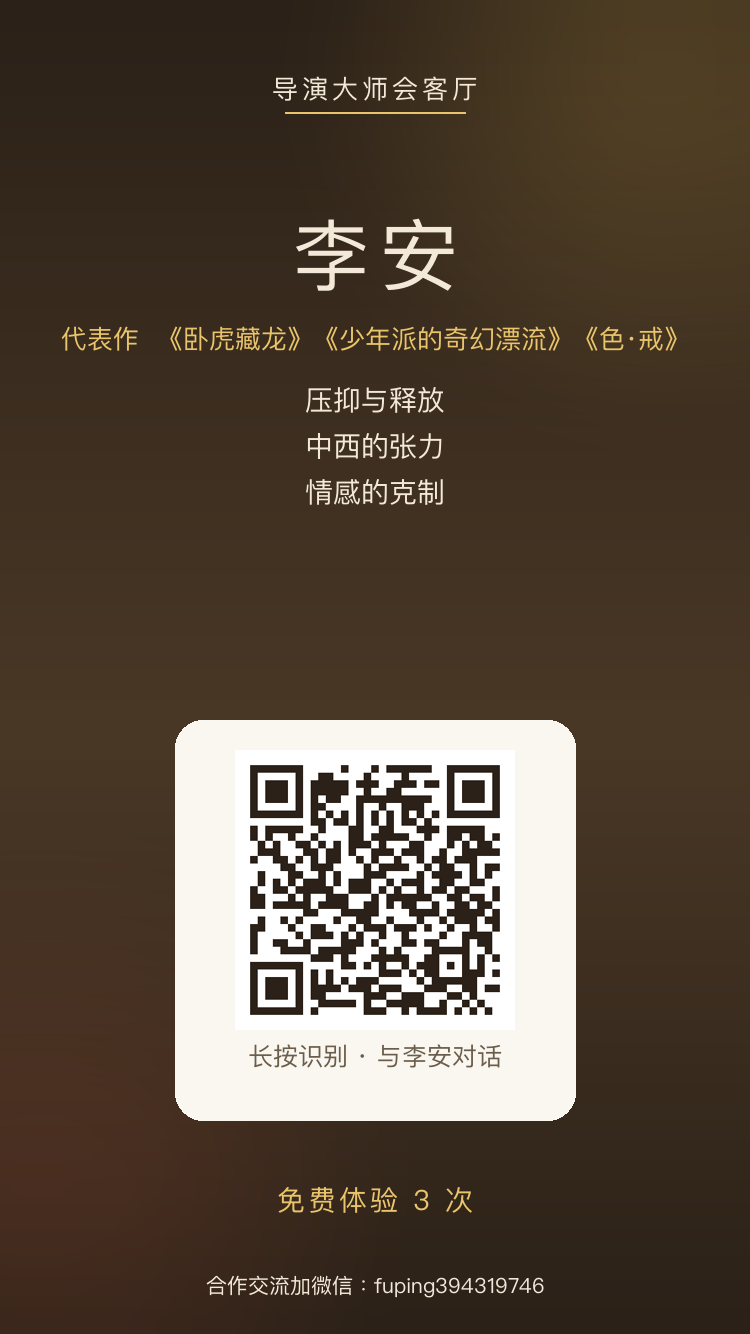
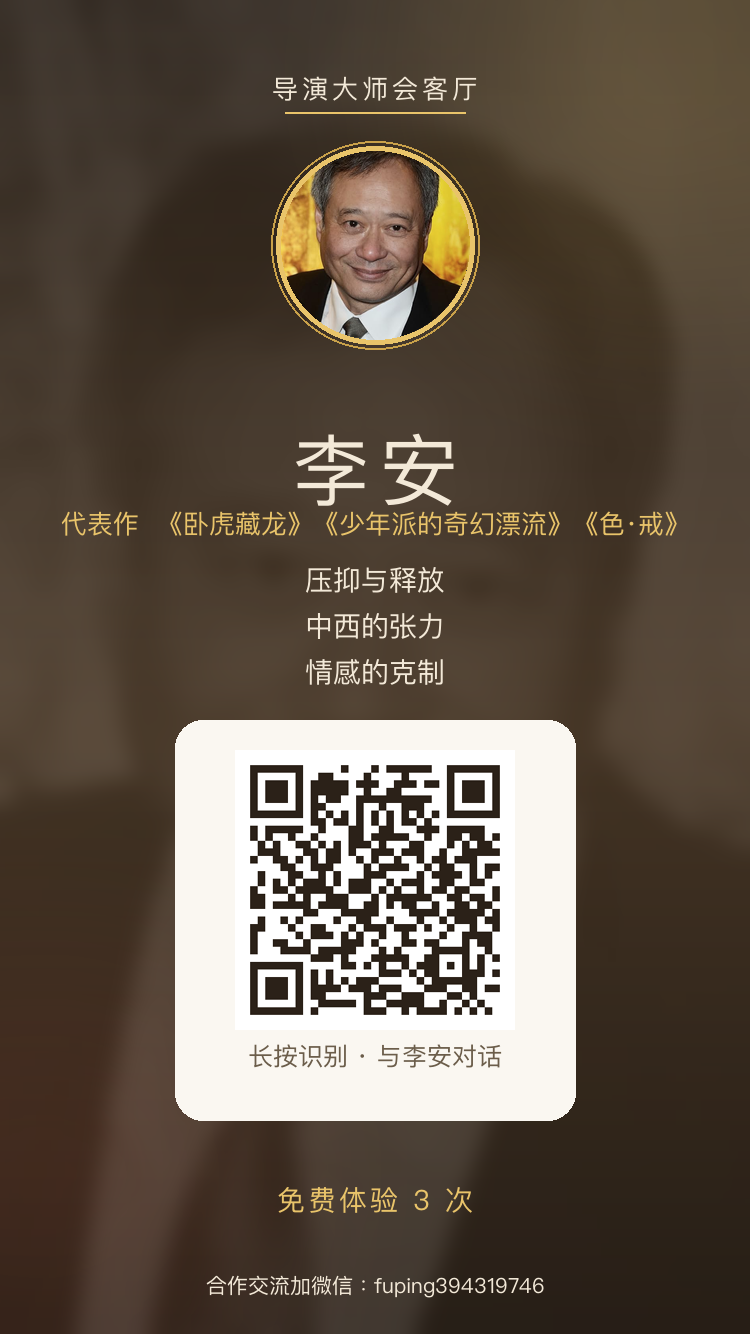
feat: 25位导演海报嵌入IMDb肖像(圆形金环头像+淡背景)，重写fetch_portraits走IMDb+curl

diff --git a/directors/share/fetch_portraits.py b/directors/share/fetch_portraits.py
@@ -1,44 +1,80 @@
 #!/usr/bin/env python3
-# 批量抓取 25 位导演的维基百科公开肖像，存到 share/posters/portraits/<id>.jpg
-# 仅作海报背景淡底用；缺图（多为在世导演无免费图）则跳过，由人工补。
-import json, os, sys, urllib.request, urllib.parse
+# 批量抓取 25 位导演肖像，存到 share/posters/portraits/<id>.jpg
+# 图源: IMDb suggestion 接口。下载走 curl（本机 Python urllib SSL 证书链缺失会全部失败，curl 用系统证书没问题）。
+# 用法: python3 fetch_portraits.py
+import json, os, subprocess, urllib.parse
 from PIL import Image
 
 HERE = os.path.dirname(os.path.abspath(__file__))
-DATA = os.path.join(HERE, '..', 'directors.json')
 OUT  = os.path.join(HERE, 'posters', 'portraits')
 os.makedirs(OUT, exist_ok=True)
 
-def en_title(disp):
-    i = next((k for k, c in enumerate(disp) if c.isascii() and c.isalpha()), None)
-    return disp[i:].strip() if i is not None else disp
+# 导演 id -> IMDb 检索名（显式映射，避免同名人混淆）
+IMDB_NAMES = {
+    'akira-kurosawa': 'Akira Kurosawa',
+    'alfred-hitchcock': 'Alfred Hitchcock',
+    'andrei-tarkovsky': 'Andrei Tarkovsky',
+    'ang-lee': 'Ang Lee',
+    'abbas-kiarostami': 'Abbas Kiarostami',
+    'bong-joon-ho': 'Bong Joon Ho',
+    'charlie-chaplin': 'Charlie Chaplin',
+    'christopher-nolan': 'Christopher Nolan',
+    'david-lynch': 'David Lynch',
+    'edward-yang': 'Edward Yang',
+    'federico-fellini': 'Federico Fellini',
+    'francis-coppola': 'Francis Ford Coppola',
+    'hayao-miyazaki': 'Hayao Miyazaki',
+    'hou-hsiao-hsien': 'Hou Hsiao-hsien',
+    'ingmar-bergman': 'Ingmar Bergman',
+    'jean-luc-godard': 'Jean-Luc Godard',
+    'jean-renoir': 'Jean Renoir',
+    'krzysztof-kieslowski': 'Krzysztof Kieslowski',
+    'martin-scorsese': 'Martin Scorsese',
+    'michelangelo-antonioni': 'Michelangelo Antonioni',
+    'orson-welles': 'Orson Welles',
+    'stanley-kubrick': 'Stanley Kubrick',
+    'takeshi-kitano': 'Takeshi Kitano',
+    'wong-kar-wai': 'Wong Kar-wai',
+    'yasujiro-ozu': 'Yasujiro Ozu',
+}
 
-def get(url):
-    req = urllib.request.Request(url, headers={'User-Agent': 'poster-gen/1.0'})
-    return urllib.request.urlopen(req, timeout=25)
+def curl_bytes(url, timeout=30):
+    r = subprocess.run(['curl', '-s', '-m', str(timeout), '-A', 'Mozilla/5.0', url],
+                       capture_output=True)
+    if r.returncode != 0 or not r.stdout:
+        raise RuntimeError(f'curl exit {r.returncode}')
+    return r.stdout
 
-data = json.load(open(DATA, encoding='utf-8'))['directors']
+def imdb_image_url(query):
+    letter = query[0].lower()
+    api = f'https://v2.sg.media-imdb.com/suggestion/{letter}/{urllib.parse.quote(query)}.json'
+    j = json.loads(curl_bytes(api))
+    items = j.get('d', [])
+    # 优先取「人物条目」（id 以 nm 开头），避免拿到影视海报/专题图
+    items.sort(key=lambda x: 0 if str(x.get('id', '')).startswith('nm') else 1)
+    for item in items:
+        img = item.get('i', {}).get('imageUrl')
+        if img:
+            # 缩到宽 480，够海报用且省流量
+            return img.replace('._V1_.jpg', '._V1_QL75_UX480_.jpg'), item.get('l', '')
+    return None, None
+
 ok, miss = 0, []
-for dr in data:
-    name = dr['name']
-    title = en_title(dr.get('display_name', name))
-    api = 'https://en.wikipedia.org/api/rest_v1/page/summary/' + urllib.parse.quote(title)
+for did, q in IMDB_NAMES.items():
+    dest = os.path.join(OUT, did + '.jpg')
     try:
-        j = json.load(get(api))
-        src = j.get('thumbnail', {}).get('source')
+        src, hit = imdb_image_url(q)
         if not src:
-            raise ValueError('no thumbnail')
-        raw = get(src).read()
-        p = os.path.join(OUT, name + '.jpg')
-        open(p, 'wb').write(raw)
-        # 校验确实是张图
-        Image.open(p).verify()
+            raise ValueError('no image in suggestion')
+        open(dest, 'wb').write(curl_bytes(src))
+        im = Image.open(dest); im.verify()
+        im = Image.open(dest)              # 二次打开确认无损坏
         ok += 1
-        print('OK  ', name, '->', title)
+        print(f'OK   {did:24s} <- {q} (IMDb命中: {hit}, {im.size[0]}x{im.size[1]})')
     except Exception as e:
-        miss.append((name, title, str(e)[:50]))
-        print('MISS', name, '->', title, '|', e)
+        miss.append((did, q, str(e)[:60]))
+        print(f'MISS {did:24s} <- {q} | {e}')
 
-print(f'\n命中 {ok}/{len(data)}；缺失 {len(miss)}')
+print(f'\n命中 {ok}/{len(IMDB_NAMES)}；缺失 {len(miss)}')
 for m in miss:
-    print('   补图:', m[0], '(', m[1], ') ', m[2])
+    print('   需人工补图:', m[0], '(', m[1], ') ', m[2])

diff --git a/directors/share/make_director_posters.py b/directors/share/make_director_posters.py
@@ -99,21 +99,39 @@ def make_poster(director):
     d = ImageDraw.Draw(img, 'RGBA')
     cx = W // 2
 
+    # 肖像：圆形金环头像（无图则自动跳过，仅保留淡背景）
+    pf = os.path.join(PORTRAITS, name + '.jpg')
+    if os.path.exists(pf):
+        try:
+            pr = 95                       # 肖像半径
+            pcx, pcy = cx, 245            # 肖像圆心
+            p = Image.open(pf).convert('RGB')
+            p = ImageOps.fit(p, (pr*2, pr*2), method=Image.LANCZOS)
+            # 轻微降饱和，贴合复古底色
+            p = Image.blend(p, ImageOps.grayscale(p).convert('RGB'), 0.25)
+            mask = Image.new('L', (pr*2, pr*2), 0)
+            ImageDraw.Draw(mask).ellipse([0, 0, pr*2 - 1, pr*2 - 1], fill=255)
+            img.paste(p, (pcx - pr, pcy - pr), mask)
+            d.ellipse([pcx-pr-4, pcy-pr-4, pcx+pr+4, pcy+pr+4], outline=GOLD, width=5)
+            d.ellipse([pcx-pr-9, pcy-pr-9, pcx+pr+9, pcy+pr+9], outline=(201, 161, 74, 90), width=2)
+        except Exception:
+            pass
+
     # 顶栏小标
     center(d, '导演大师会客厅', 70, font(CJK, 26), SUB, spacing=4)
     d.line([cx-90, 112, cx+90, 112], fill=GOLD, width=2)
 
     # 导演名（大字，长名自动缩号）
     nf, nsize = fit_font(d, cn, CJK, 78, 40, W - 80, spacing=10)
-    center(d, cn, 200, nf, CREAM, spacing=10 if nsize >= 60 else 4)
+    center(d, cn, 415, nf, CREAM, spacing=10 if nsize >= 60 else 4)
 
     # 代表作（过长自动缩号，不再截断）
     if work:
         wf, _ = fit_font(d, '代表作  ' + work, CJK, 26, 16, W - 90)
-        center(d, '代表作  ' + work, 320, wf, GOLD)
+        center(d, '代表作  ' + work, 505, wf, GOLD)
 
     # 招牌主题（最多 3 行，同样防溢出）
-    ty = 380
+    ty = 560
     for th in themes[:3]:
         tf, _ = fit_font(d, th, CJK, 28, 18, W - 90)
         center(d, th, ty, tf, CREAM)
